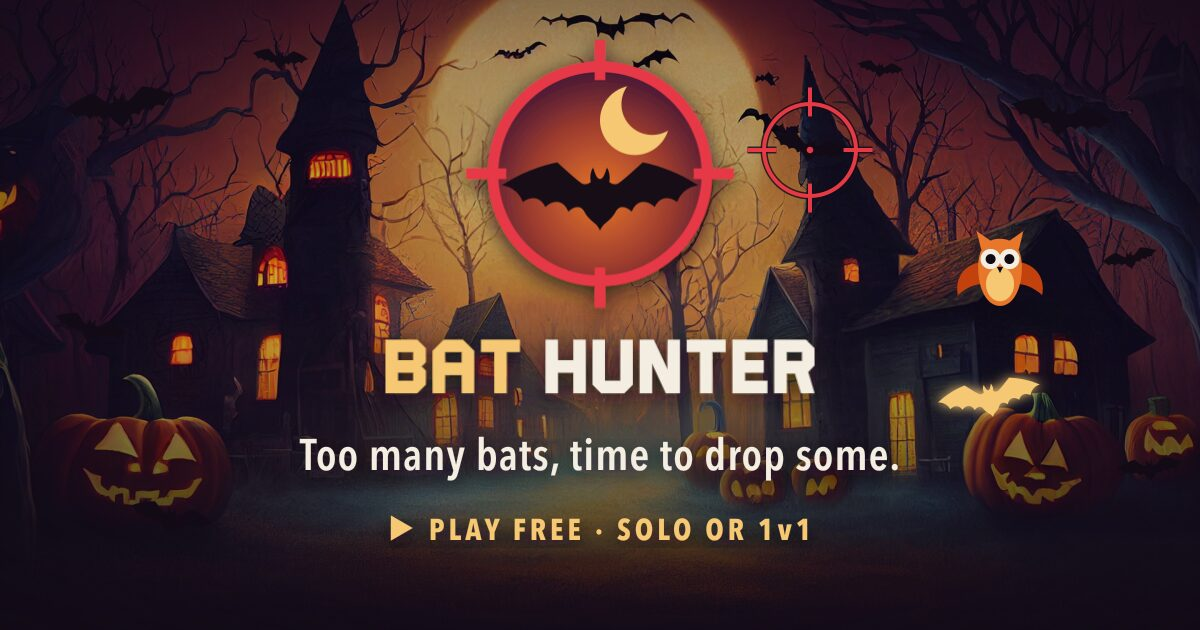
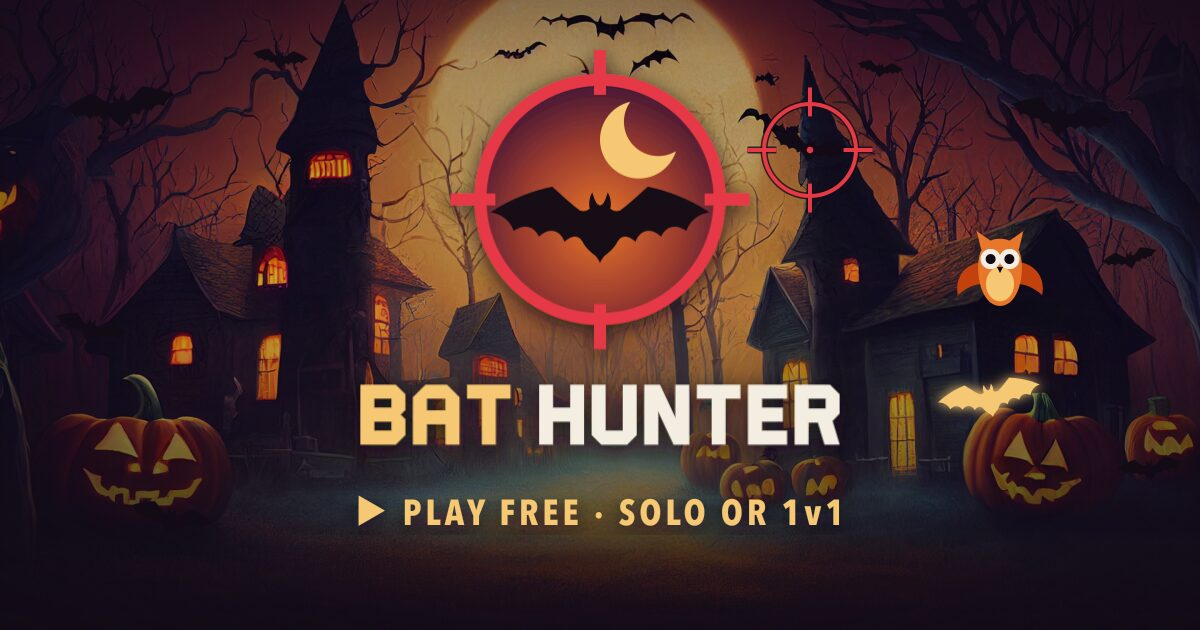
style: drop the tagline from the link preview card

Changed region(s): [[0.2467, 0.0603, 0.74, 0.754], [0.2775, 0.7841, 0.7092, 0.8746]]

diff --git a/index.html b/index.html
@@ -14,7 +14,7 @@
     <meta property="og:type" content="website" />
     <meta property="og:site_name" content="Bat Hunter" />
     <meta property="og:url" content="https://bat-hunter-game.web.app/" />
-    <meta property="og:title" content="Bat Hunter 🦇 Too many bats, time to drop some." />
+    <meta property="og:title" content="Bat Hunter 🦇" />
     <meta
       property="og:description"
       content="Free browser shooter. Play solo, take the 60-second challenge or face a friend 1v1."

diff --git a/brand/tools/og.py b/brand/tools/og.py
@@ -26,7 +26,7 @@ def card():
     golden = bat(990, 400, 1.1, fill=MOON, rotate=-10, extra='filter="url(#glow)"')
     target = bat(810, 150, 0.8, rotate=12) + reticle(810, 150, 46)
     # Logo 160.3 x 132 (stacked)
-    logo_w = 430
+    logo_w = 480
     logo_h = logo_w * 132 / 160.3
 
     return f'''<svg xmlns="http://www.w3.org/2000/svg" xmlns:xlink="http://www.w3.org/1999/xlink" viewBox="0 0 {W} {H}" width="{W}" height="{H}">
@@ -55,10 +55,8 @@ def card():
   {golden}
   {target}
   <image href="{owl}" xlink:href="{owl}" x="950" y="220" width="100" height="100"/>
-  <image href="{logo}" xlink:href="{logo}" x="{(W - logo_w) / 2}" y="40" width="{logo_w}" height="{logo_h}" filter="url(#lift)"/>
-  <text x="{W / 2}" y="470" text-anchor="middle" font-family="{FONT}" font-weight="600" font-size="44"
-        fill="{BONE}" letter-spacing="1" filter="url(#lift)">Too many bats, time to drop some.</text>
-  <text x="{W / 2}" y="540" text-anchor="middle" font-family="{FONT}" font-weight="700" font-size="30"
+  <image href="{logo}" xlink:href="{logo}" x="{(W - logo_w) / 2}" y="50" width="{logo_w}" height="{logo_h}" filter="url(#lift)"/>
+  <text x="{W / 2}" y="525" text-anchor="middle" font-family="{FONT}" font-weight="700" font-size="36"
         fill="{MOON}" letter-spacing="4" filter="url(#lift)">▶ PLAY FREE · SOLO OR 1v1</text>
 </svg>'''
 
